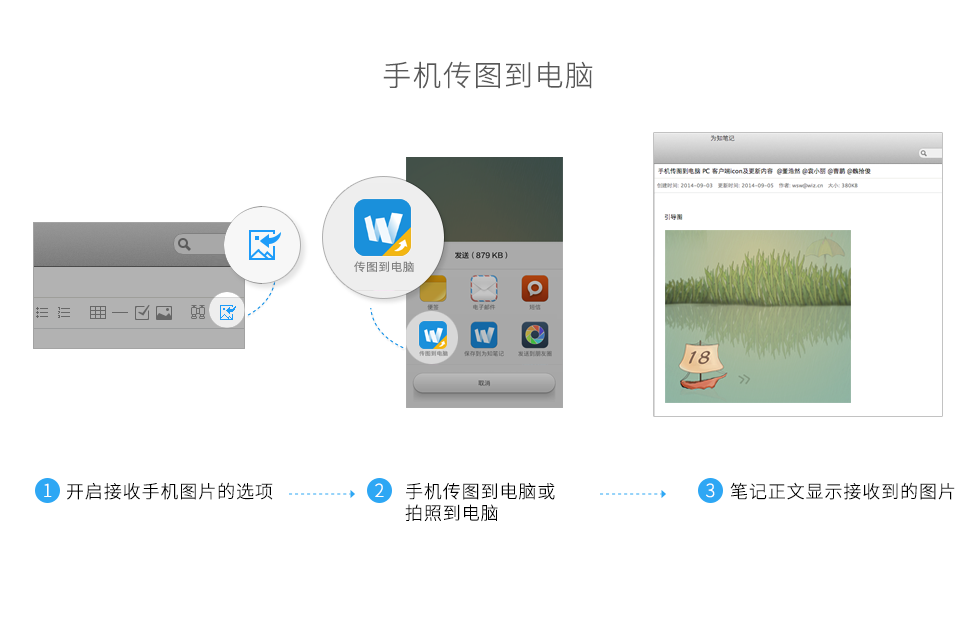
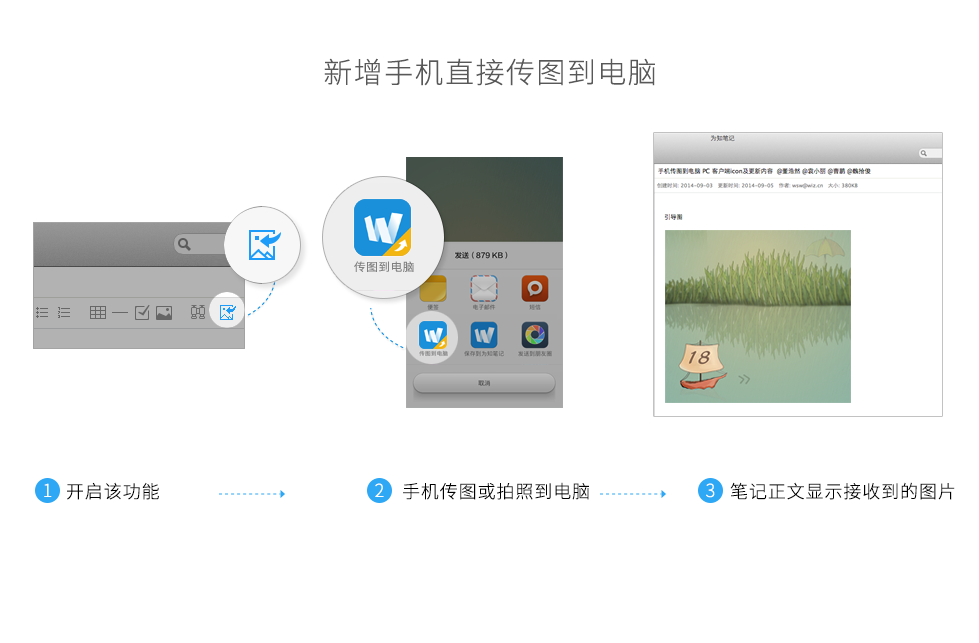
说几传图用户引导图

Changed region(s): [[0.3371, 0.0933, 0.6742, 0.1555], [0.3984, 0.7465, 0.6129, 0.8087], [0.0919, 0.7465, 0.3064, 0.7776]]

diff --git a/src/wizmainwindow.cpp b/src/wizmainwindow.cpp
@@ -2306,12 +2306,6 @@ void MainWindow::createNoteWithImage(const QString& strImageFile)
 
 void MainWindow::showUserGuideImage()
 {
-    showMobileFileReceiverUserGuide();
-}
-
-void MainWindow::showMobileFileReceiverUserGuide(bool bShowHideOption)
-{
-    QString strThemeName = Utils::StyleHelper::themeName();
     QString strFileName;
     if (m_settings->locale() == WizGetDefaultTranslatedLocal())
     {
@@ -2321,64 +2315,23 @@ void MainWindow::showMobileFileReceiverUserGuide(bool bShowHideOption)
     {
         strFileName = "userGuidImageCN";
     }
-    QString strImageFile = ::WizGetSkinResourceFileName(strThemeName, strFileName);
+    bool bShowHideOption = false;
+    showMobileFileUserGuideDialog(strFileName, bShowHideOption);
+}
 
-    QImage image(strImageFile);
-    if (image.isNull())
-        return;
-
-    QDialog dlg;
-    dlg.setFixedSize(image.size());
-    dlg.setWindowFlags(Qt::FramelessWindowHint);
-    dlg.setStyleSheet(QString("QDialog {border: none;background-image: url(%1);"
-                               "background-position: center; background-repeat: no-repeat; "
-                               "background-color:#43A6E8}").arg(strImageFile));
-
-    QToolButton *btnClose = new QToolButton(&dlg);
-    QString strBtnCloseNormal = ::WizGetSkinResourceFileName(strThemeName, "loginCloseButton_normal");
-    QString strBtnCloseHot = ::WizGetSkinResourceFileName(strThemeName, "loginCloseButton_hot");
-    btnClose->setStyleSheet(QString("QToolButton{ border-image:url(%1); height: 13px; width: 13px;}"
-                                         "QToolButton:hover{ border-image:url(%2);}"
-                                           "QToolButton:pressed { border-image:url(%3);}")
-                                 .arg(strBtnCloseNormal).arg(strBtnCloseHot).arg(strBtnCloseHot));
-
-    QPushButton *btnMore = new QPushButton(tr("More ..."), &dlg);
-    btnMore->setStyleSheet(QString("QPushButton { border: none; background: none; "
-                                   "color: #43a6e8; font: 18px; padding-right: 15px; padding-bottom: 5px}"));
-
-    QCheckBox *checkBox = new QCheckBox(tr("Don't show me this again"), &dlg);
-    checkBox->setStyleSheet(QString("QCheckBox { border: none; background: none; "
-                                    "color: #43a6e8; font: 18px; padding-right: 15px; padding-bottom: 5px}"));
-
-    QHBoxLayout *layoutTop = new QHBoxLayout();
-    layoutTop->setContentsMargins(0, 0, 0, 0);
-    layoutTop->addWidget(btnClose, 10, Qt::AlignLeft);
-
-    QHBoxLayout *layoutBottom = new QHBoxLayout();
-    layoutBottom->setContentsMargins(20, 20, 20, 20);
-    layoutBottom->addWidget(checkBox, 20, Qt::AlignLeft);
-    layoutBottom->addWidget(btnMore, 20, Qt::AlignRight);
-    checkBox->setVisible(bShowHideOption);
-
-    QVBoxLayout *layout = new QVBoxLayout(&dlg);
-    layout->setContentsMargins(5, 5, 15, 20);
-    layout->addLayout(layoutTop);
-    QSpacerItem *verSpacer = new QSpacerItem(40, 20, QSizePolicy::Minimum, QSizePolicy::Expanding);
-    layout->addSpacerItem(verSpacer);
-    layout->addLayout(layoutBottom);
-
-    connect(btnClose, SIGNAL(clicked()), &dlg, SLOT(close()));
-    connect(btnMore, SIGNAL(clicked()), &dlg, SLOT(accept()));
-    if (dlg.exec() == QDialog::Accepted)
+void MainWindow::showMobileFileReceiverUserGuide()
+{
+    QString strFileName;
+    if (m_settings->locale() == WizGetDefaultTranslatedLocal())
     {
-        QString strUrl = WizService::ApiEntry::standardCommandUrl("link");
-        strUrl += "&name=wiz-imagetocomputer.html";
-        QDesktopServices::openUrl(QUrl(strUrl));
+        strFileName = "mobileFileUserGuidImageUS";
     }
-    if (checkBox->isChecked())
+    else
     {
-        m_settings->setNeedShowMobileFileReceiverUserGuide(false);
+        strFileName = "mobileFileUserGuidImageCN";
     }
+    bool bShowHideOption = true;
+    showMobileFileUserGuideDialog(strFileName, bShowHideOption);
 }
 
 void MainWindow::initTrayIcon(QSystemTrayIcon* trayIcon)
@@ -2468,6 +2421,72 @@ bool MainWindow::needShowUserGuide()
         return true;
 
     return strUserGuideVserion.compare(WIZ_CLIENT_VERSION) < 0;
+}
+
+bool MainWindow::showMobileFileUserGuideDialog(const QString& strBgImage,
+                                               bool bShowHideOption)
+{
+    QString strThemeName = Utils::StyleHelper::themeName();
+    QString strImageFile = ::WizGetSkinResourceFileName(strThemeName, strBgImage);
+
+    QImage image(strImageFile);
+    if (image.isNull())
+        return false;
+
+    QDialog dlg;
+    dlg.setFixedSize(image.size());
+    dlg.setWindowFlags(Qt::FramelessWindowHint);
+    dlg.setStyleSheet(QString("QDialog {border: none;background-image: url(%1);"
+                              "background-position: center; background-repeat: no-repeat; "
+                              "background-color:#43A6E8}").arg(strImageFile));
+
+    QToolButton *btnClose = new QToolButton(&dlg);
+    QString strBtnCloseNormal = ::WizGetSkinResourceFileName(strThemeName, "loginCloseButton_normal");
+    QString strBtnCloseHot = ::WizGetSkinResourceFileName(strThemeName, "loginCloseButton_hot");
+    btnClose->setStyleSheet(QString("QToolButton{ border-image:url(%1); height: 13px; width: 13px;}"
+                                    "QToolButton:hover{ border-image:url(%2);}"
+                                    "QToolButton:pressed { border-image:url(%3);}")
+                            .arg(strBtnCloseNormal).arg(strBtnCloseHot).arg(strBtnCloseHot));
+
+    QPushButton *btnMore = new QPushButton(tr("More ..."), &dlg);
+    btnMore->setStyleSheet(QString("QPushButton { border: none; background: none; "
+                                   "color: #43a6e8; font: 18px; padding-right: 15px; padding-bottom: 5px}"));
+
+    QCheckBox *checkBox = new QCheckBox(tr("Don't show me this again"), &dlg);
+    checkBox->setStyleSheet(QString("QCheckBox { border: none; background: none; "
+                                    "color: #43a6e8; font: 18px; padding-right: 15px; padding-bottom: 5px}"));
+
+    QHBoxLayout *layoutTop = new QHBoxLayout();
+    layoutTop->setContentsMargins(0, 0, 0, 0);
+    layoutTop->addWidget(btnClose, 10, Qt::AlignLeft);
+
+    QHBoxLayout *layoutBottom = new QHBoxLayout();
+    layoutBottom->setContentsMargins(20, 20, 20, 20);
+    layoutBottom->addWidget(checkBox, 20, Qt::AlignLeft);
+    layoutBottom->addWidget(btnMore, 20, Qt::AlignRight);
+    checkBox->setVisible(bShowHideOption);
+
+    QVBoxLayout *layout = new QVBoxLayout(&dlg);
+    layout->setContentsMargins(5, 5, 15, 20);
+    layout->addLayout(layoutTop);
+    QSpacerItem *verSpacer = new QSpacerItem(40, 20, QSizePolicy::Minimum, QSizePolicy::Expanding);
+    layout->addSpacerItem(verSpacer);
+    layout->addLayout(layoutBottom);
+
+    connect(btnClose, SIGNAL(clicked()), &dlg, SLOT(close()));
+    connect(btnMore, SIGNAL(clicked()), &dlg, SLOT(accept()));
+    if (dlg.exec() == QDialog::Accepted)
+    {
+        QString strUrl = WizService::ApiEntry::standardCommandUrl("link");
+        strUrl += "&name=wiz-imagetocomputer.html";
+        QDesktopServices::openUrl(QUrl(strUrl));
+    }
+    if (checkBox->isChecked())
+    {
+        m_settings->setNeedShowMobileFileReceiverUserGuide(false);
+    }
+
+    return true;
 }
 
 void MainWindow::viewDocumentInFloatWidget(const WIZDOCUMENTDATA& data)

diff --git a/src/wizDocumentWebView.cpp b/src/wizDocumentWebView.cpp
@@ -1541,8 +1541,7 @@ bool CWizDocumentWebView::editorCommandExecuteMobileImage(bool bReceiveImage)
     MainWindow* mainWindow = qobject_cast<MainWindow *>(m_app.mainWindow());
     if (bReceiveImage && m_app.userSettings().needShowMobileFileReceiverUserGuide())
     {
-        bool bShowHideOption  = true;
-        mainWindow->showMobileFileReceiverUserGuide(bShowHideOption);
+        mainWindow->showMobileFileReceiverUserGuide();
     }
 
     m_app.userSettings().setReceiveMobileFile(bReceiveImage);

diff --git a/src/wizmainwindow.h b/src/wizmainwindow.h
@@ -355,7 +355,7 @@ public Q_SLOTS:
 
     //
     void showUserGuideImage();
-    void showMobileFileReceiverUserGuide(bool bShowHideOption = false);
+    void showMobileFileReceiverUserGuide();
 public:
     // WizExplorerApp pointer
     virtual QWidget* mainWindow() { return this; }
@@ -398,6 +398,7 @@ private:
 
     //
     bool needShowUserGuide();
+    bool showMobileFileUserGuideDialog(const QString& strBgImg, bool bShowHideOption);
 };
 
 } // namespace Internal
